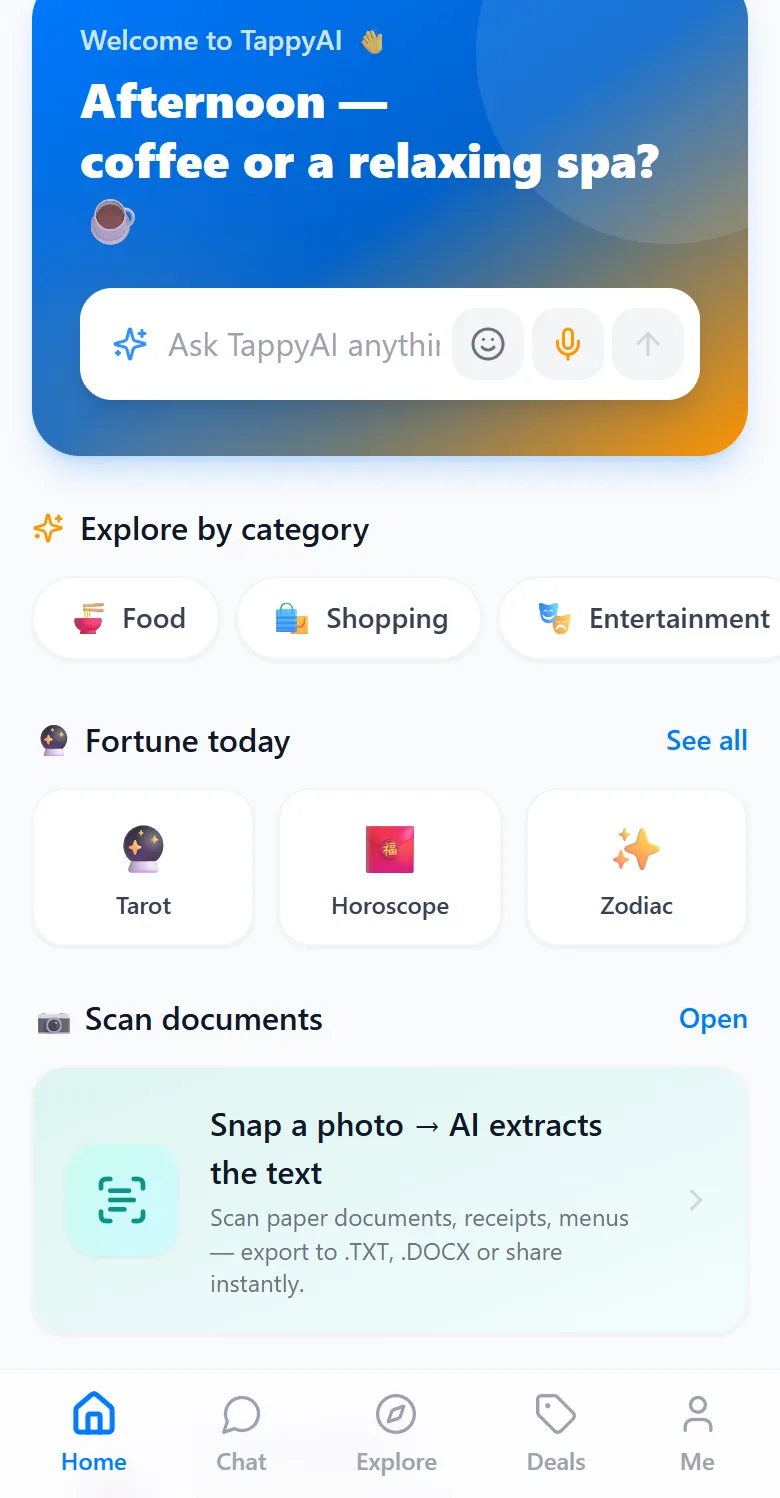
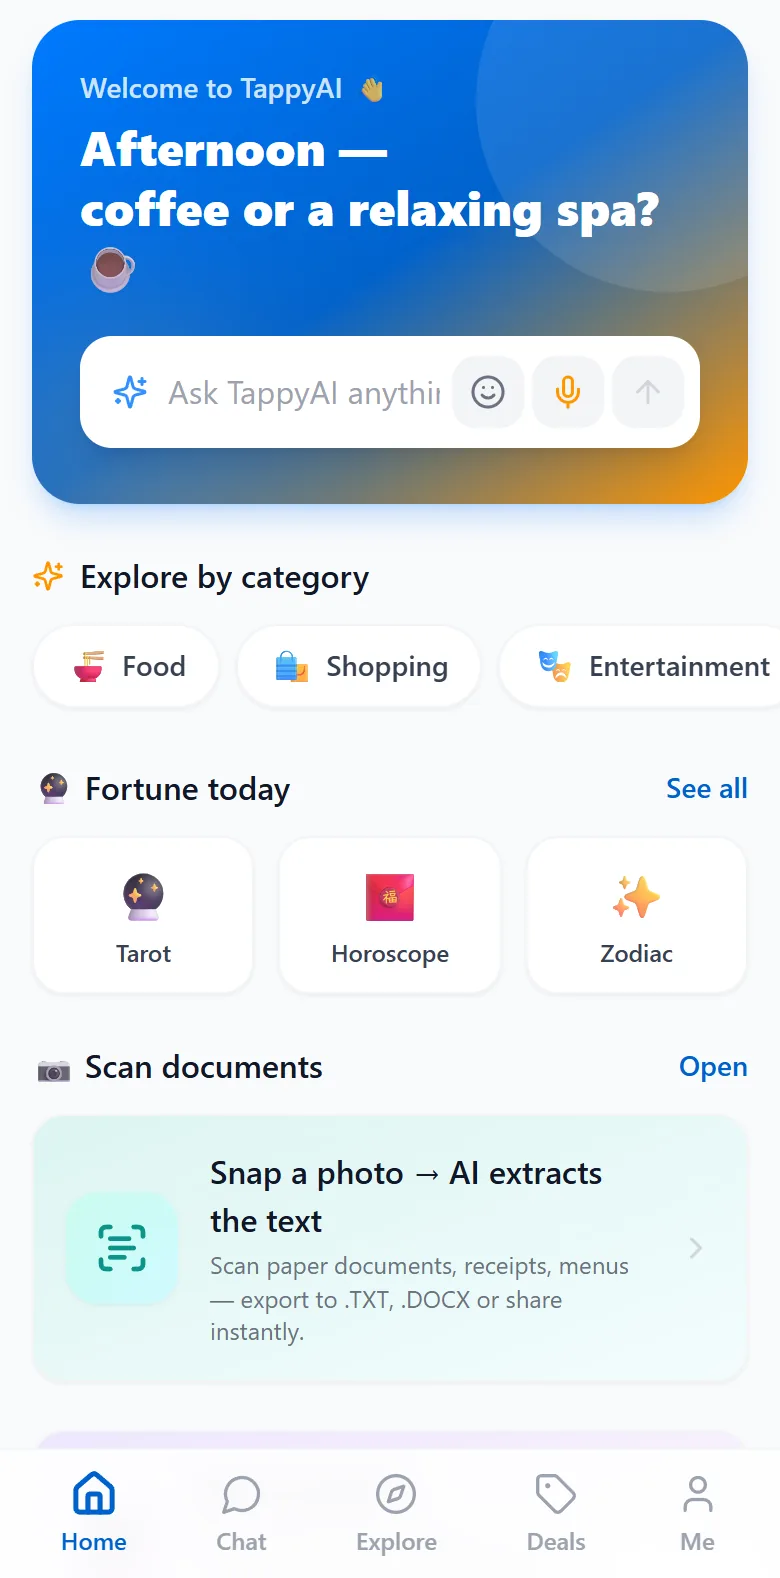
chore(web/landing): refresh Hero phone with a genuine live Home capture
Regenerate the Hero phone screenshot from the real Home screen
(src/app/HomeView.tsx) so it reflects the actual product, matching the
approved mockup. Audit found the live Home already matches the mockup 1:1
(hero card, search bar, Explore by category, Fortune today, Scan documents,
bottom nav) — the only variable is the time-based greeting, so no Home UI
changes were needed. Captured the real UI at the afternoon slot to match the
approved "coffee or a relaxing spa?" greeting (dynamic hour pinned only for
the capture, reverted; no hand-editing).

- public/landing/screen-home.webp: fresh 780x1578 capture, WebP q82 (53KB)
- config HERO_SCREENSHOT height 1498 -> 1578 (match new intrinsic size)

diff --git a/src/components/landing/config.ts b/src/components/landing/config.ts
@@ -19,8 +19,9 @@ export const FOUNDER_EMAIL = 'founder@tappyai.com'
 export const FOUNDER_LINKEDIN_URL = 'https://www.linkedin.com/in/ph%E1%BA%A1m-huy-313592253/'
 export const FOUNDER_LINKEDIN_LABEL = 'linkedin.com/in/phạm-huy-313592253'
 
-// Real production captures (www.tappyai.com, 390x844 viewport @2x, WebP q82).
-export const HERO_SCREENSHOT = { src: '/landing/screen-home.webp', width: 780, height: 1498 }
+// Real production captures (390px viewport @2x, WebP q82). screen-home.webp is
+// a genuine screenshot of the live Home screen (src/app/HomeView.tsx).
+export const HERO_SCREENSHOT = { src: '/landing/screen-home.webp', width: 780, height: 1578 }
 
 export const GALLERY_SCREENSHOTS: Array<{ key: string; src: string; width: number; height: number }> = [
   { key: 'chat', src: '/landing/screen-chat.webp', width: 780, height: 1688 },
